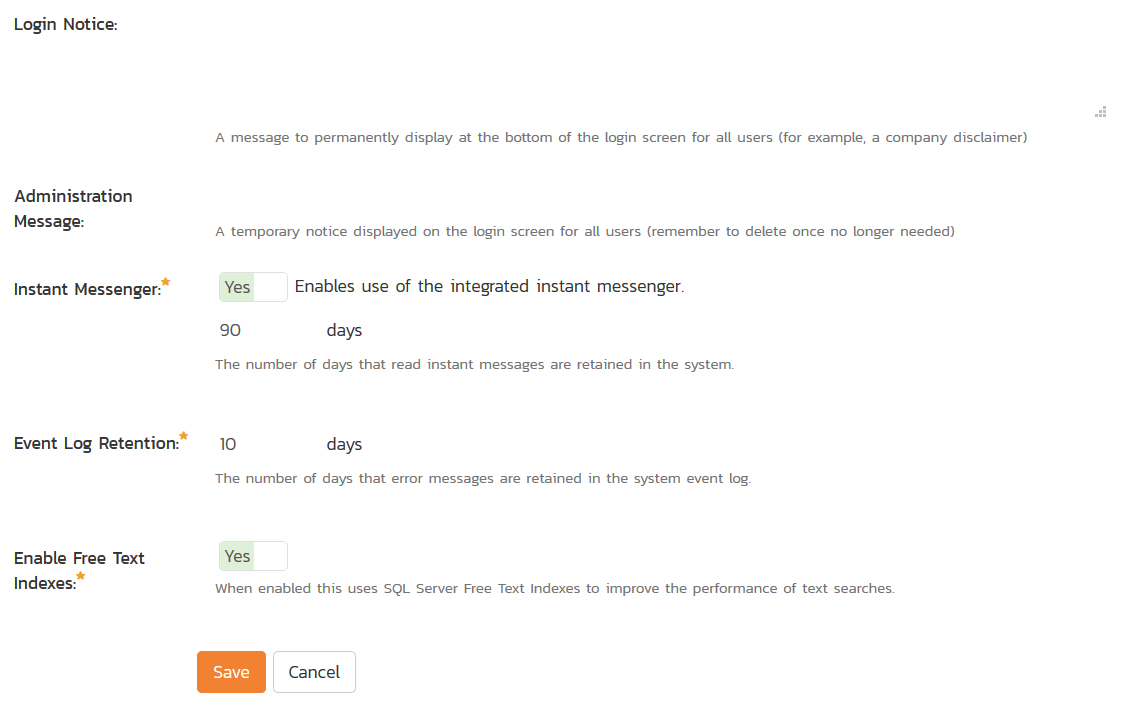
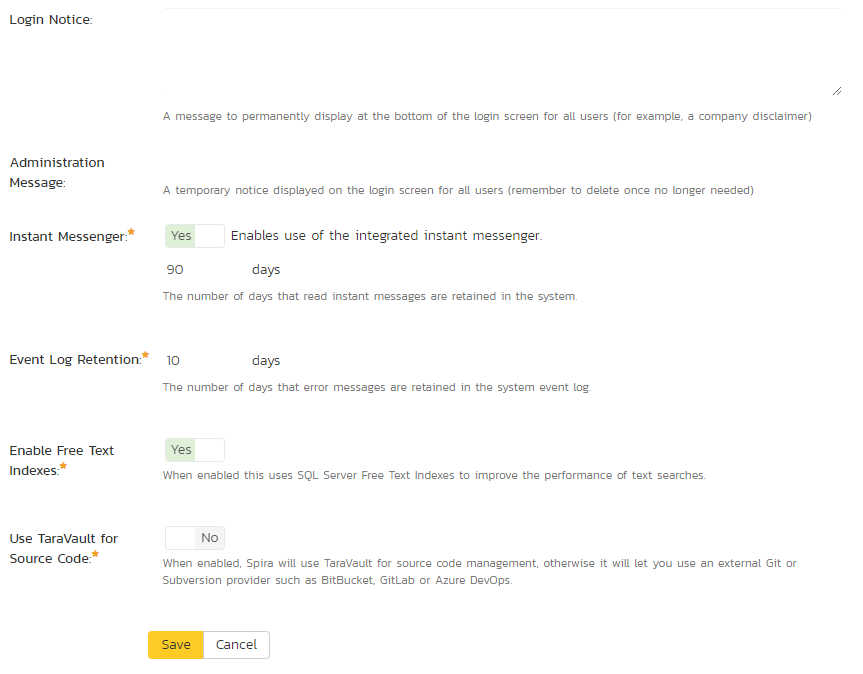
updates for 6.2.2.0

diff --git a/docs/Spira-Administration-Guide/System.md b/docs/Spira-Administration-Guide/System.md
@@ -32,6 +32,8 @@ The available settings include:
 
 -   **Enable Free Text Indexes** -- This tells SpiraPlan to use SQL Server Free Text Indexing to speed up keyword searches in the Global Search box. You should only have this set to "Yes" if you have the Free Text Indexing featured enabled in SQL Server, otherwise you will cause SpiraPlan to display error messages when users try and use the global search.
 
+-   **Use TaraVault for source code** -- This toggle is only available to cloud hosted versions of SpiraTeam and SpiraPlan. Cloud hosted applications will, by default, use [TaraVault](../TaraVault-User-Manual/Activating-TaraVault.md) for source code management. Administrators can turn off TaraVault and then connect directly to any third party source code provider they choose.
+
 
 ## File Type Icons
 
